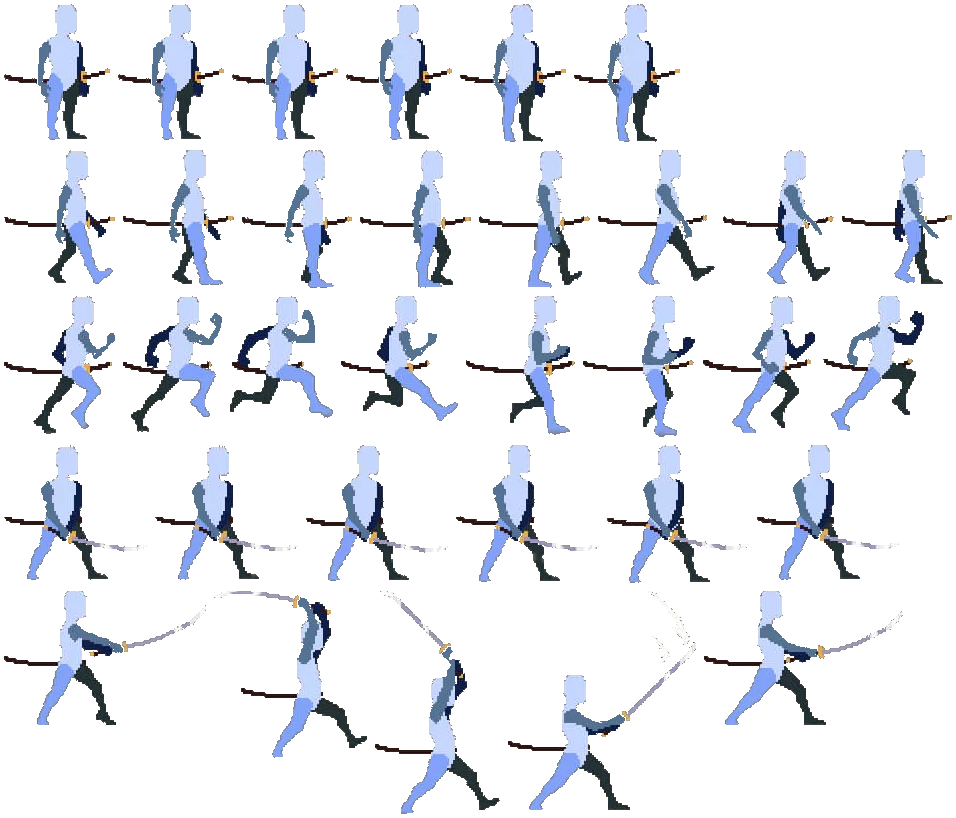
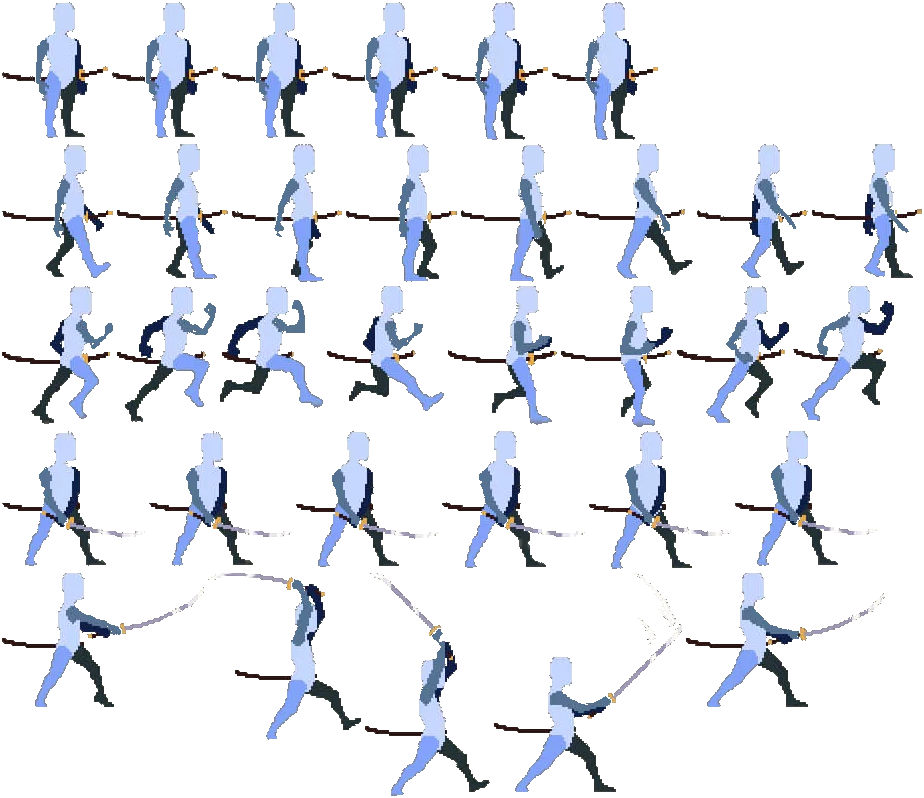
[22] 투명 여백 제거로 실제 표시 크기 보정

diff --git a/Labs/LEC08_Animation/build_animation_atlas.py b/Labs/LEC08_Animation/build_animation_atlas.py
@@ -73,7 +73,8 @@ def cut_frame(source, components, rectangle):
                 count += 1
     if count < 3000:
         raise ValueError(f"Incomplete sprite at {rectangle}: {count} pixels")
-    return result
+    # Trim transparent padding so enlargement measures visible pixels.
+    return result.crop(result.getbbox())
 
 
 def build_atlas():
